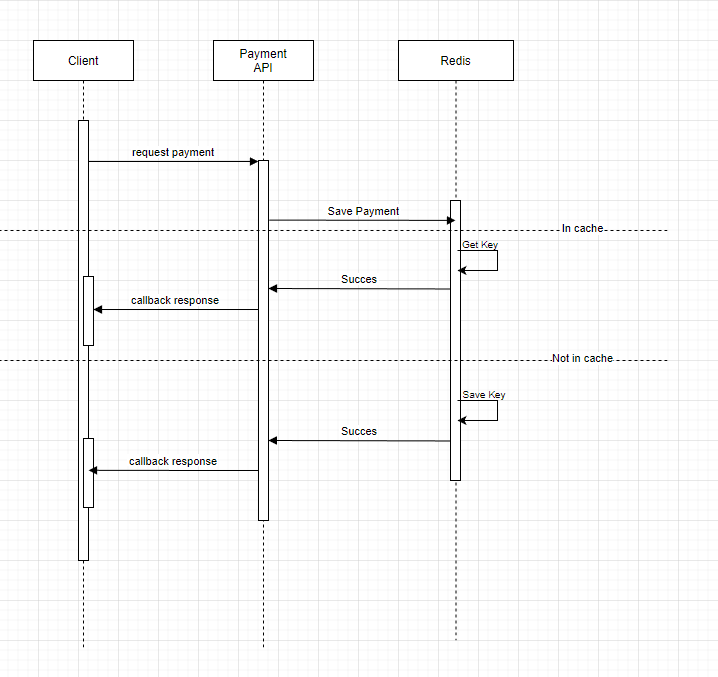
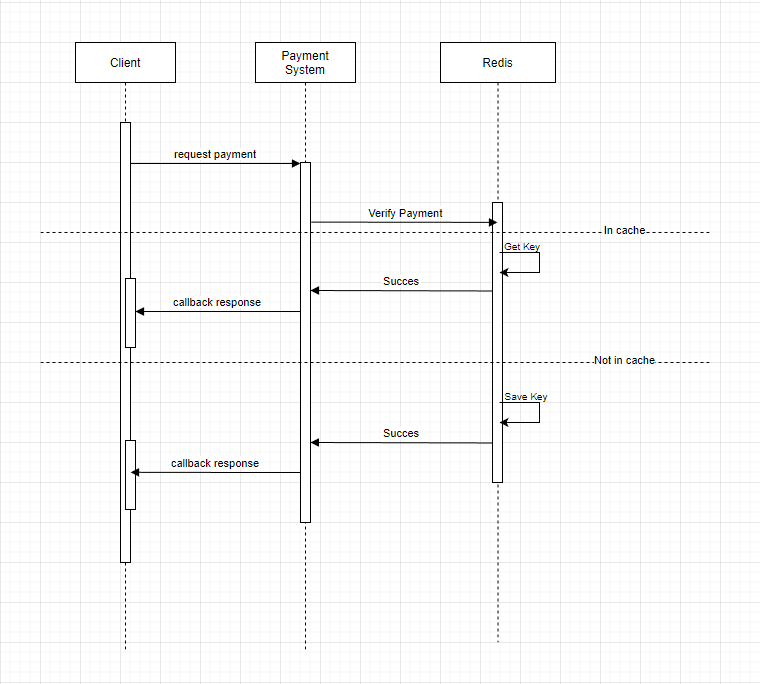
[UPD] Diagramme and RedisPaymentRepository

diff --git a/src/main/java/io/swagger/repository/RedisPaymentRepository.java b/src/main/java/io/swagger/repository/RedisPaymentRepository.java
@@ -12,24 +12,26 @@ public class RedisPaymentRepository implements RedisRepository{
 
     @Qualifier("redisTemplate")
     @Autowired
-    private RedisTemplate template;
+    private RedisTemplate<String, String> template;
 
     @Override
     public void save(String idempotencyKey, String paymentStatus) {
+        template.opsForValue().set(idempotencyKey, paymentStatus);
+        template.expire(idempotencyKey,60, TimeUnit.MINUTES);
     }
 
     @Override
     public String findByKey(String key) {
-        return null;
+        return template.opsForValue().get(key);
     }
 
     @Override
     public boolean keyExist(String key) {
-        return false;
+        return Boolean.TRUE.equals(template.hasKey(key));
     }
 
     @Override
     public void remove(String key) {
-
+        template.delete(key);
     }
 }
